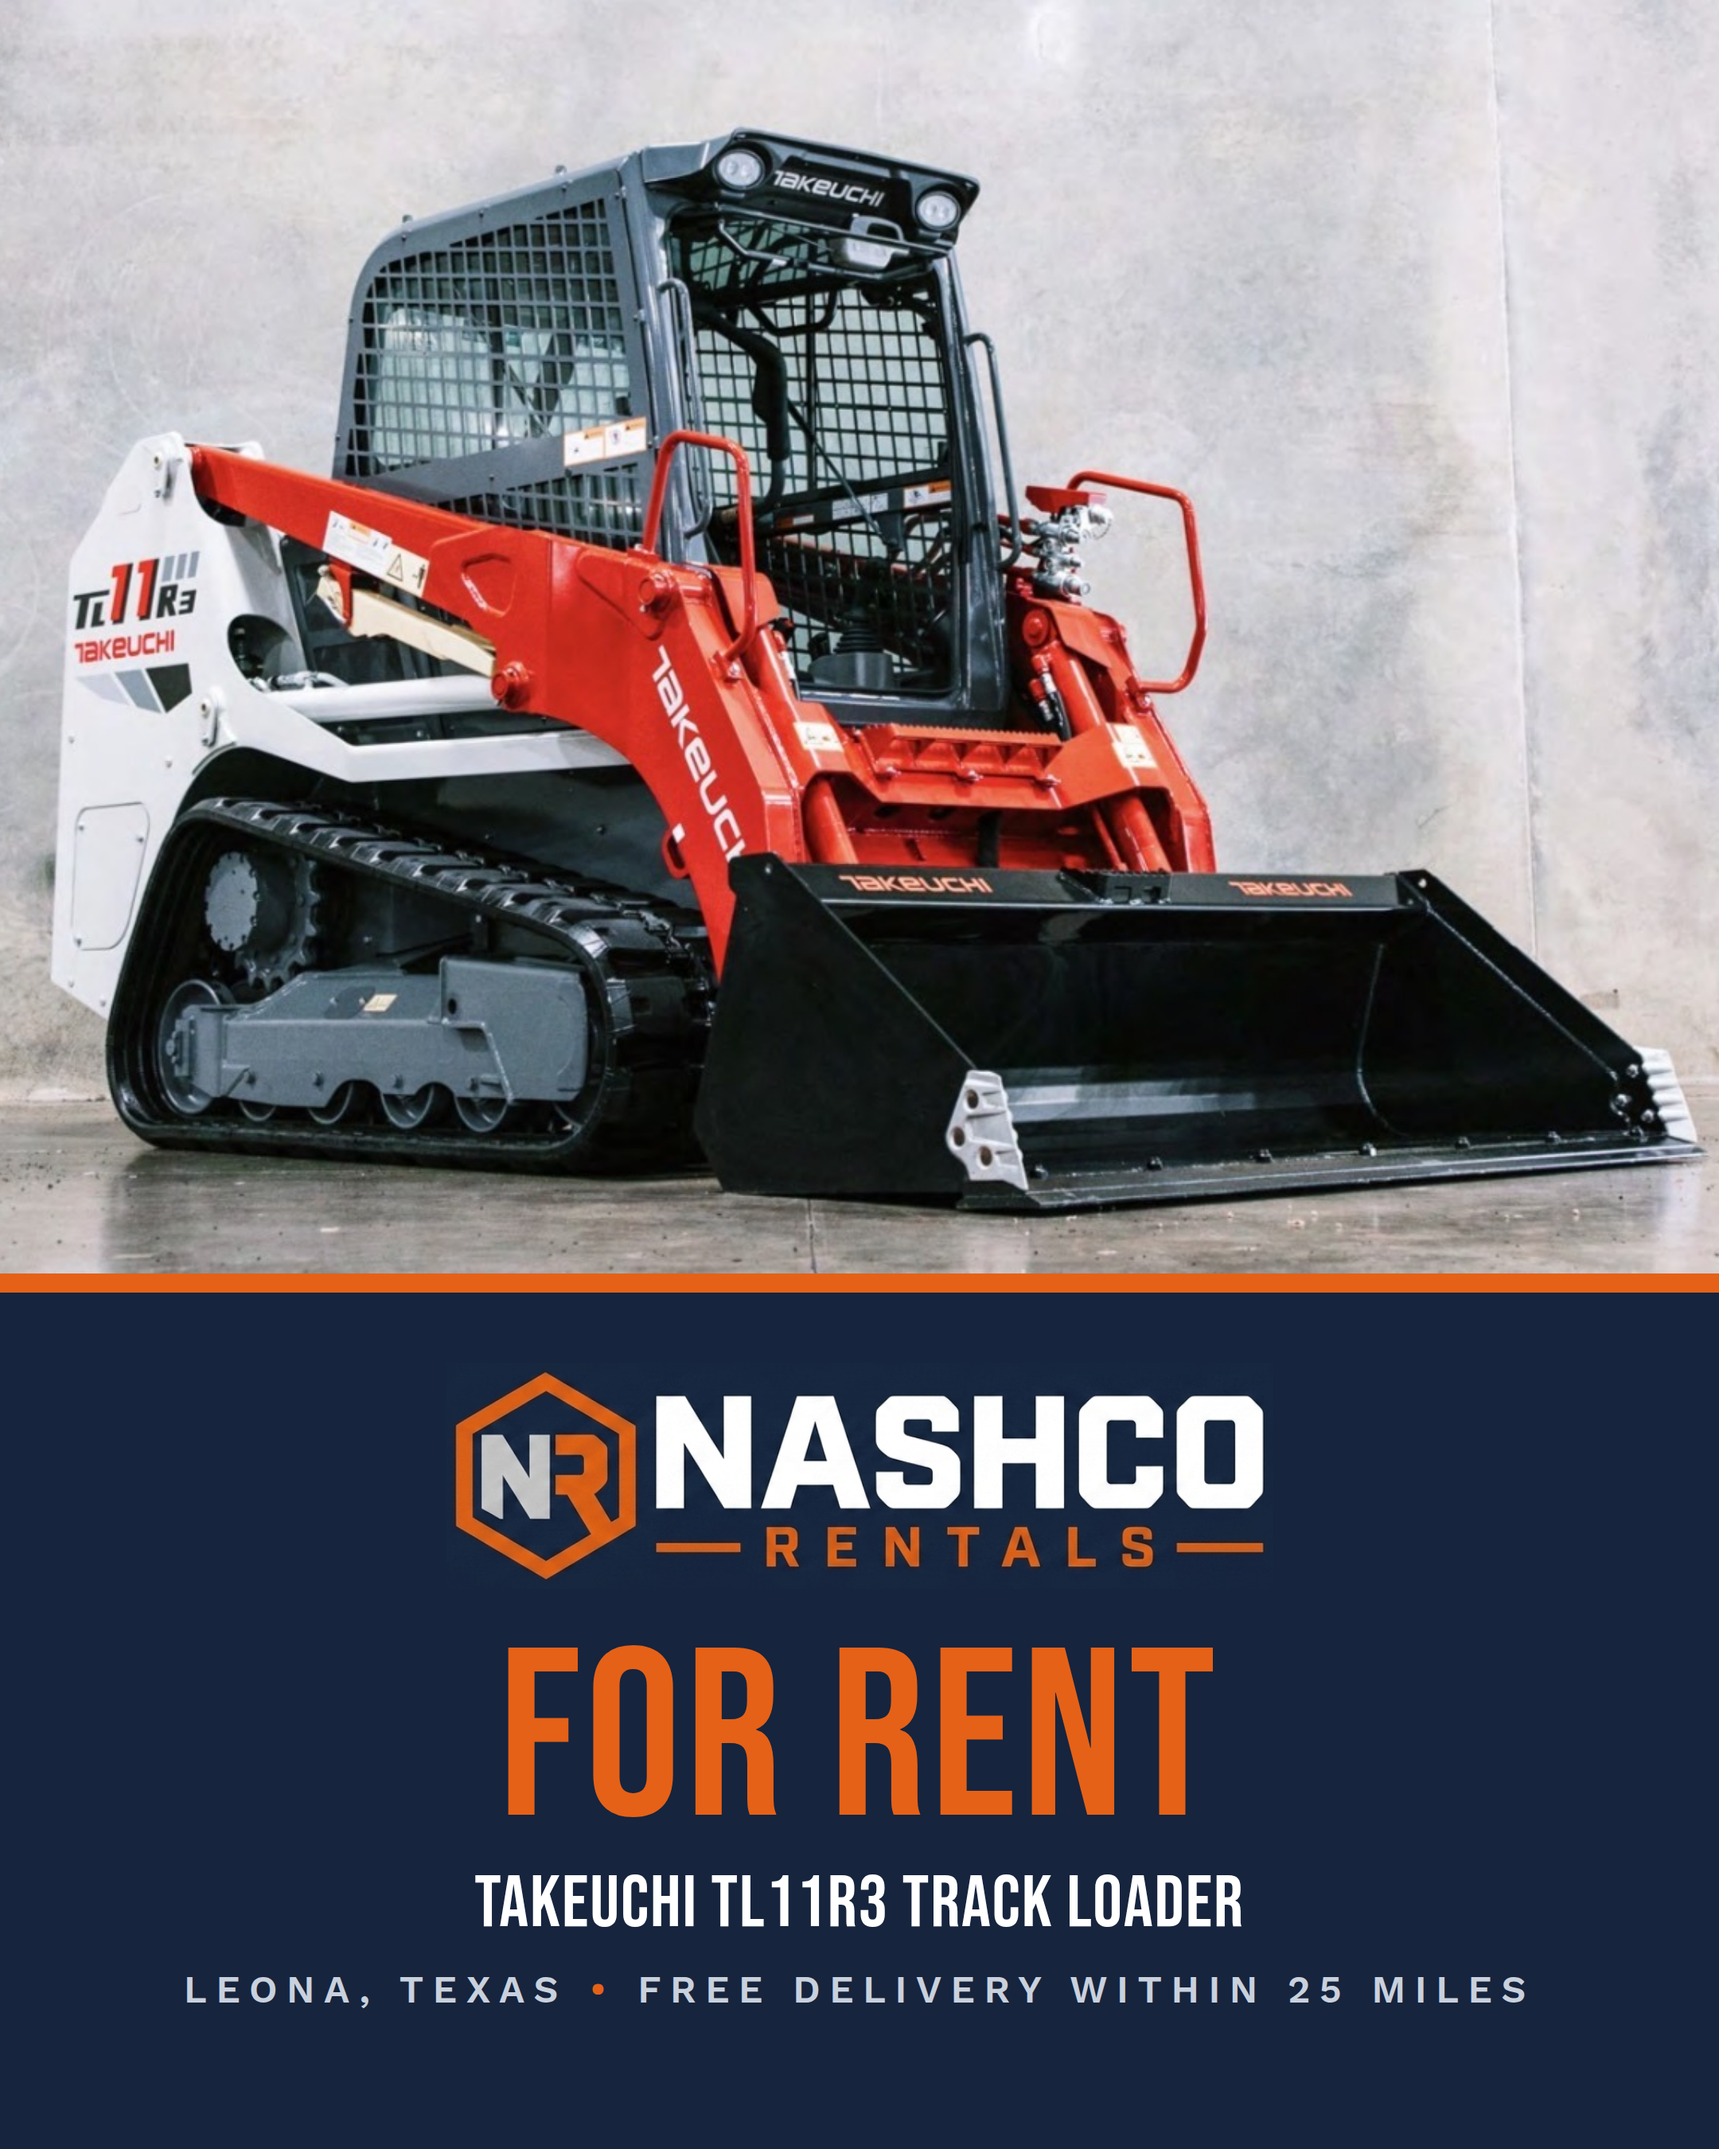
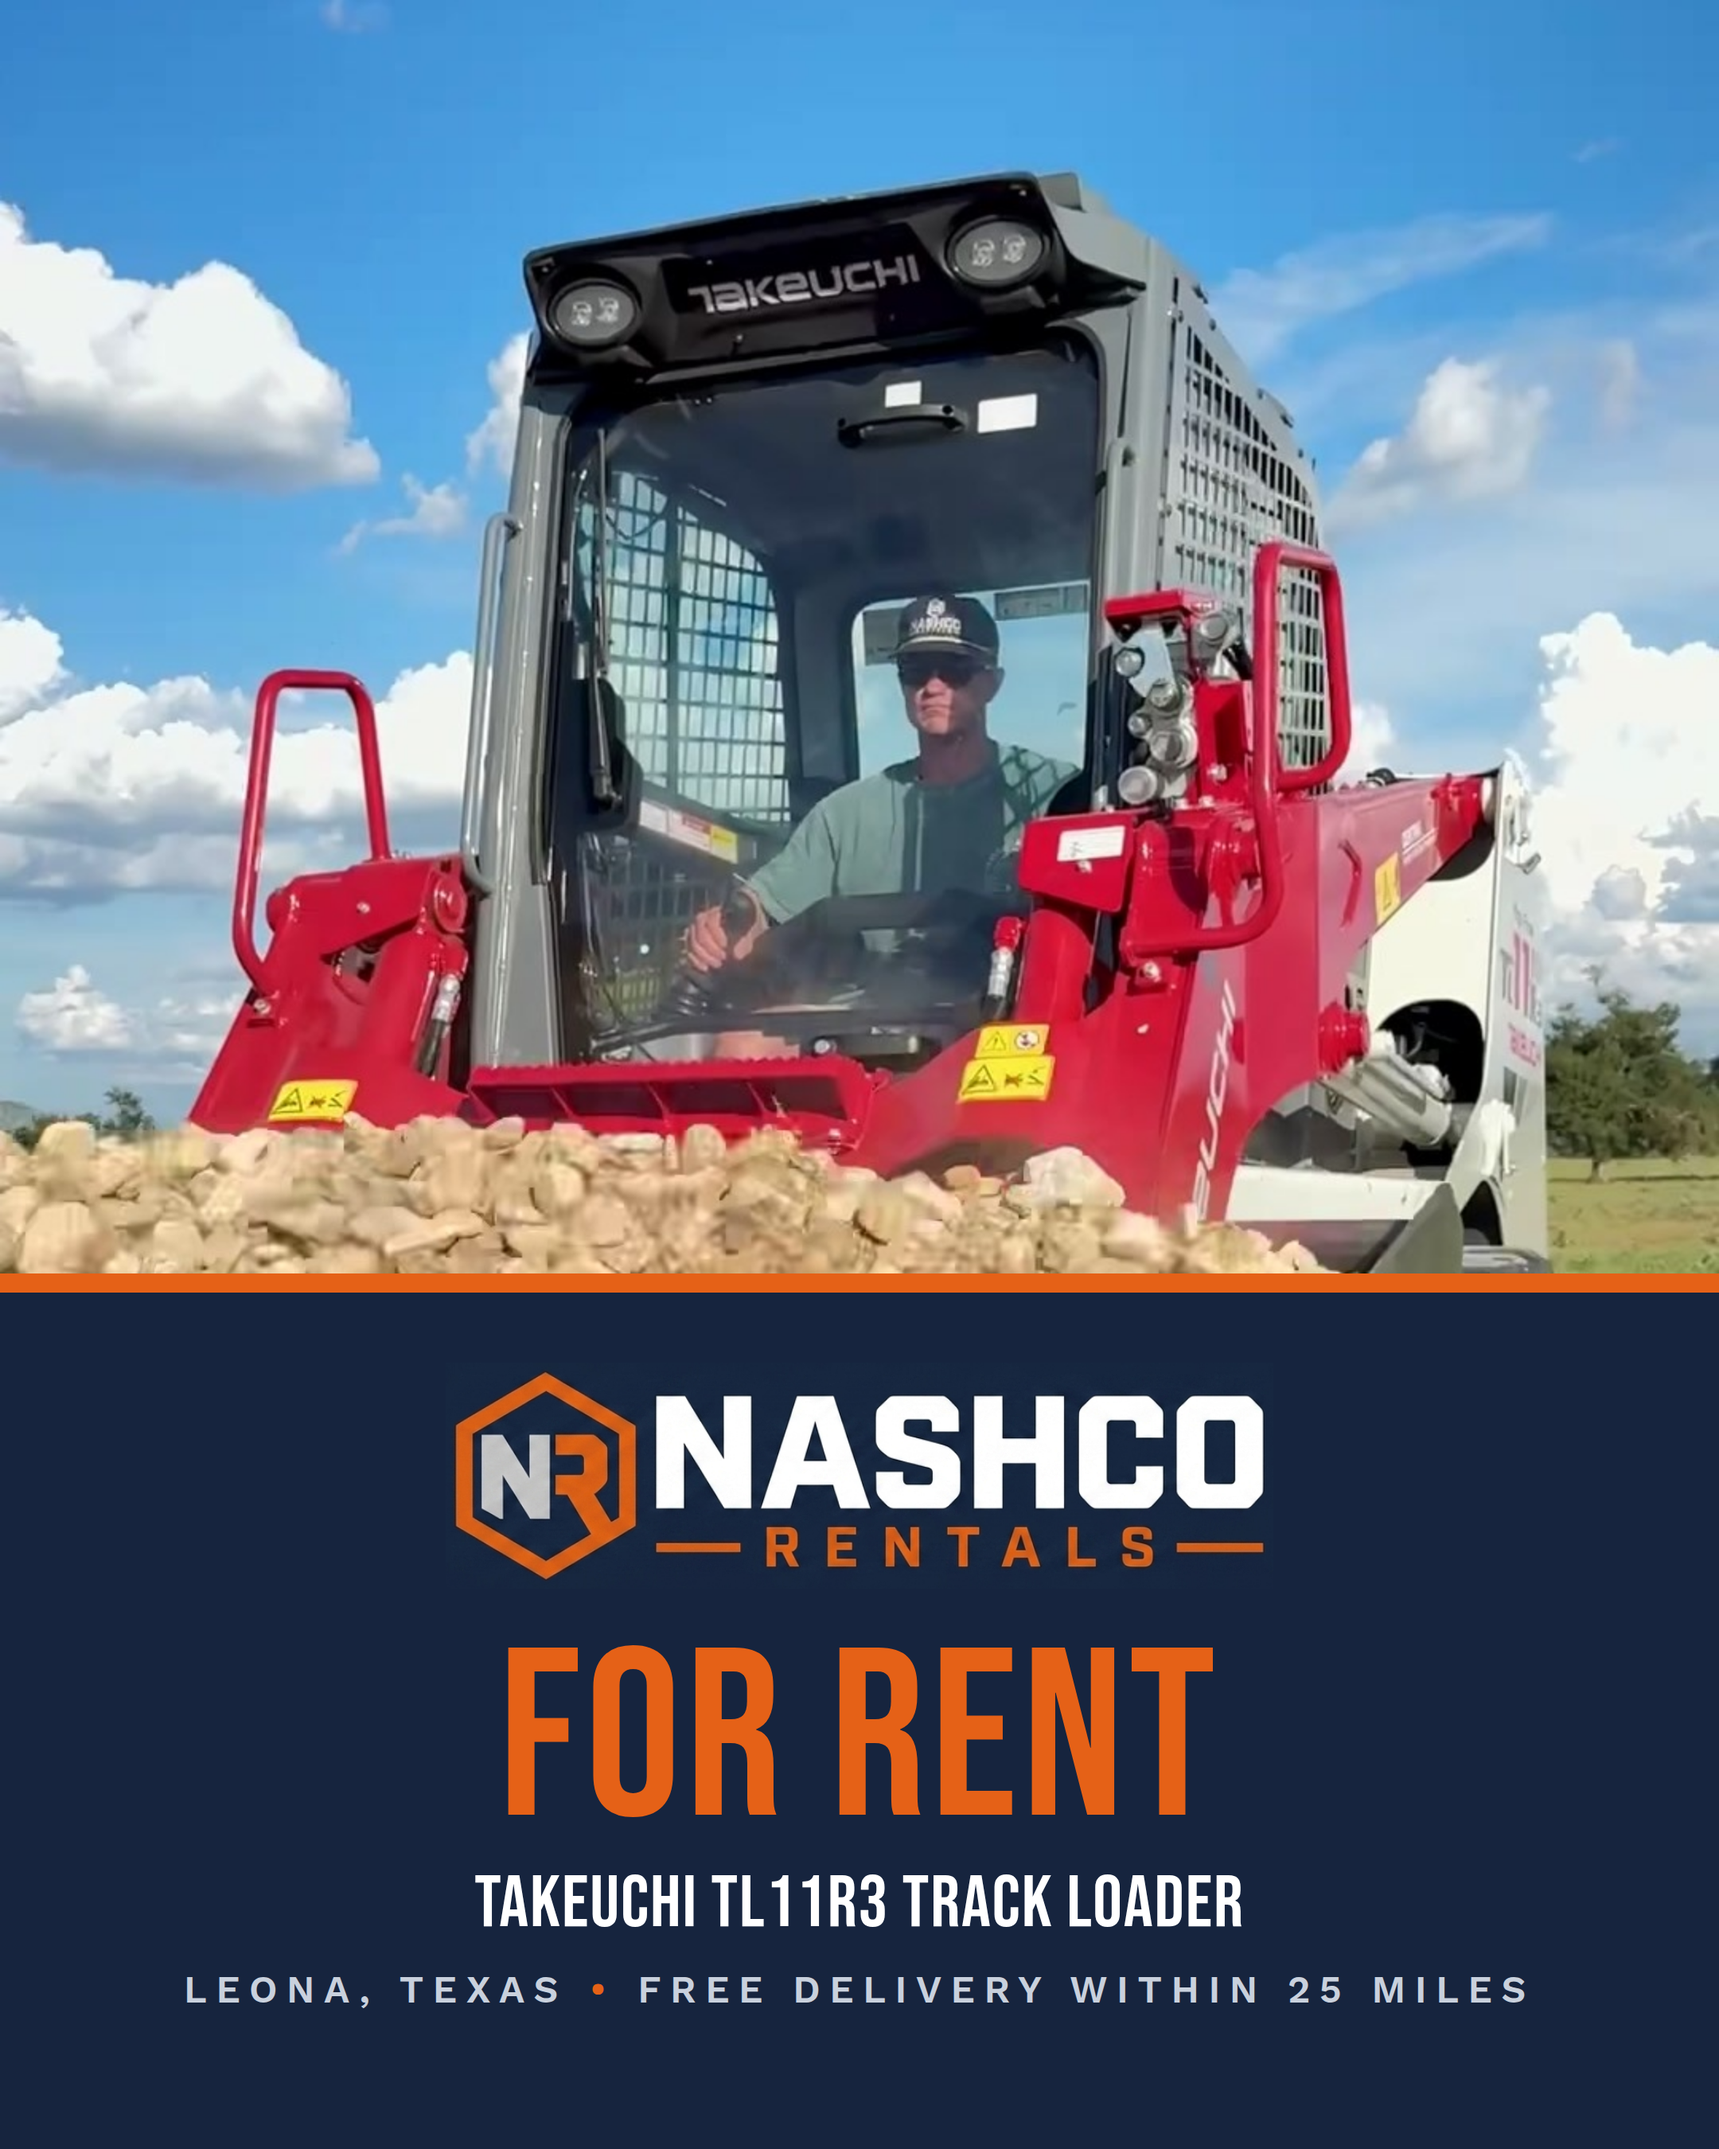
Lead image: use still from the rock-dump video; keep studio version
Claude-Session: https://claude.ai/code/session_01MjBdAn1tqXy1S9X7E6qMHj

diff --git a/marketing/hero2.html b/marketing/hero2.html
@@ -1,0 +1,22 @@
+<!doctype html><html><head><meta charset="utf-8"><link href="fonts-local.css" rel="stylesheet">
+<style>
+*{box-sizing:border-box;margin:0;padding:0}
+html,body{width:1080px;height:1350px;background:#0B2340;font-family:"Work Sans",Arial,sans-serif}
+.bebas{font-family:"Bebas Neue","Arial Narrow",Impact,sans-serif;font-weight:400}
+.photo{position:absolute;top:0;left:0;width:1080px;height:800px;overflow:hidden;background:#9a9a9a}
+.photo img{width:100%;height:100%;object-fit:cover;object-position:50% 50%}
+.band{position:absolute;top:800px;left:0;width:1080px;height:550px;background:#16243e;border-top:12px solid #E56117;padding:44px 72px 0;color:#fff}
+.band .logo{display:block;width:520px;height:auto;margin:0 auto}
+.rent{margin-top:26px;text-align:center;font-size:150px;line-height:.95;color:#E56117;letter-spacing:.02em}
+.mach{margin-top:8px;text-align:center;font-size:46px;line-height:1;color:#fff;letter-spacing:.02em}
+.loc{margin-top:16px;text-align:center;font-size:24px;font-weight:600;letter-spacing:.24em;text-transform:uppercase;color:#c9d1dd}
+.loc span{color:#E56117;padding:0 14px}
+</style></head><body>
+<div class="photo"><img src="hero-photo2.jpg"></div>
+<div class="band">
+  <img class="logo" src="nashco-logo-dark.png" alt="Nashco Rentals">
+  <div class="rent bebas">FOR RENT</div>
+  <div class="mach bebas">TAKEUCHI TL11R3 TRACK LOADER</div>
+  <div class="loc">Leona, Texas<span>•</span>Free delivery within 25 miles</div>
+</div>
+</body></html>
